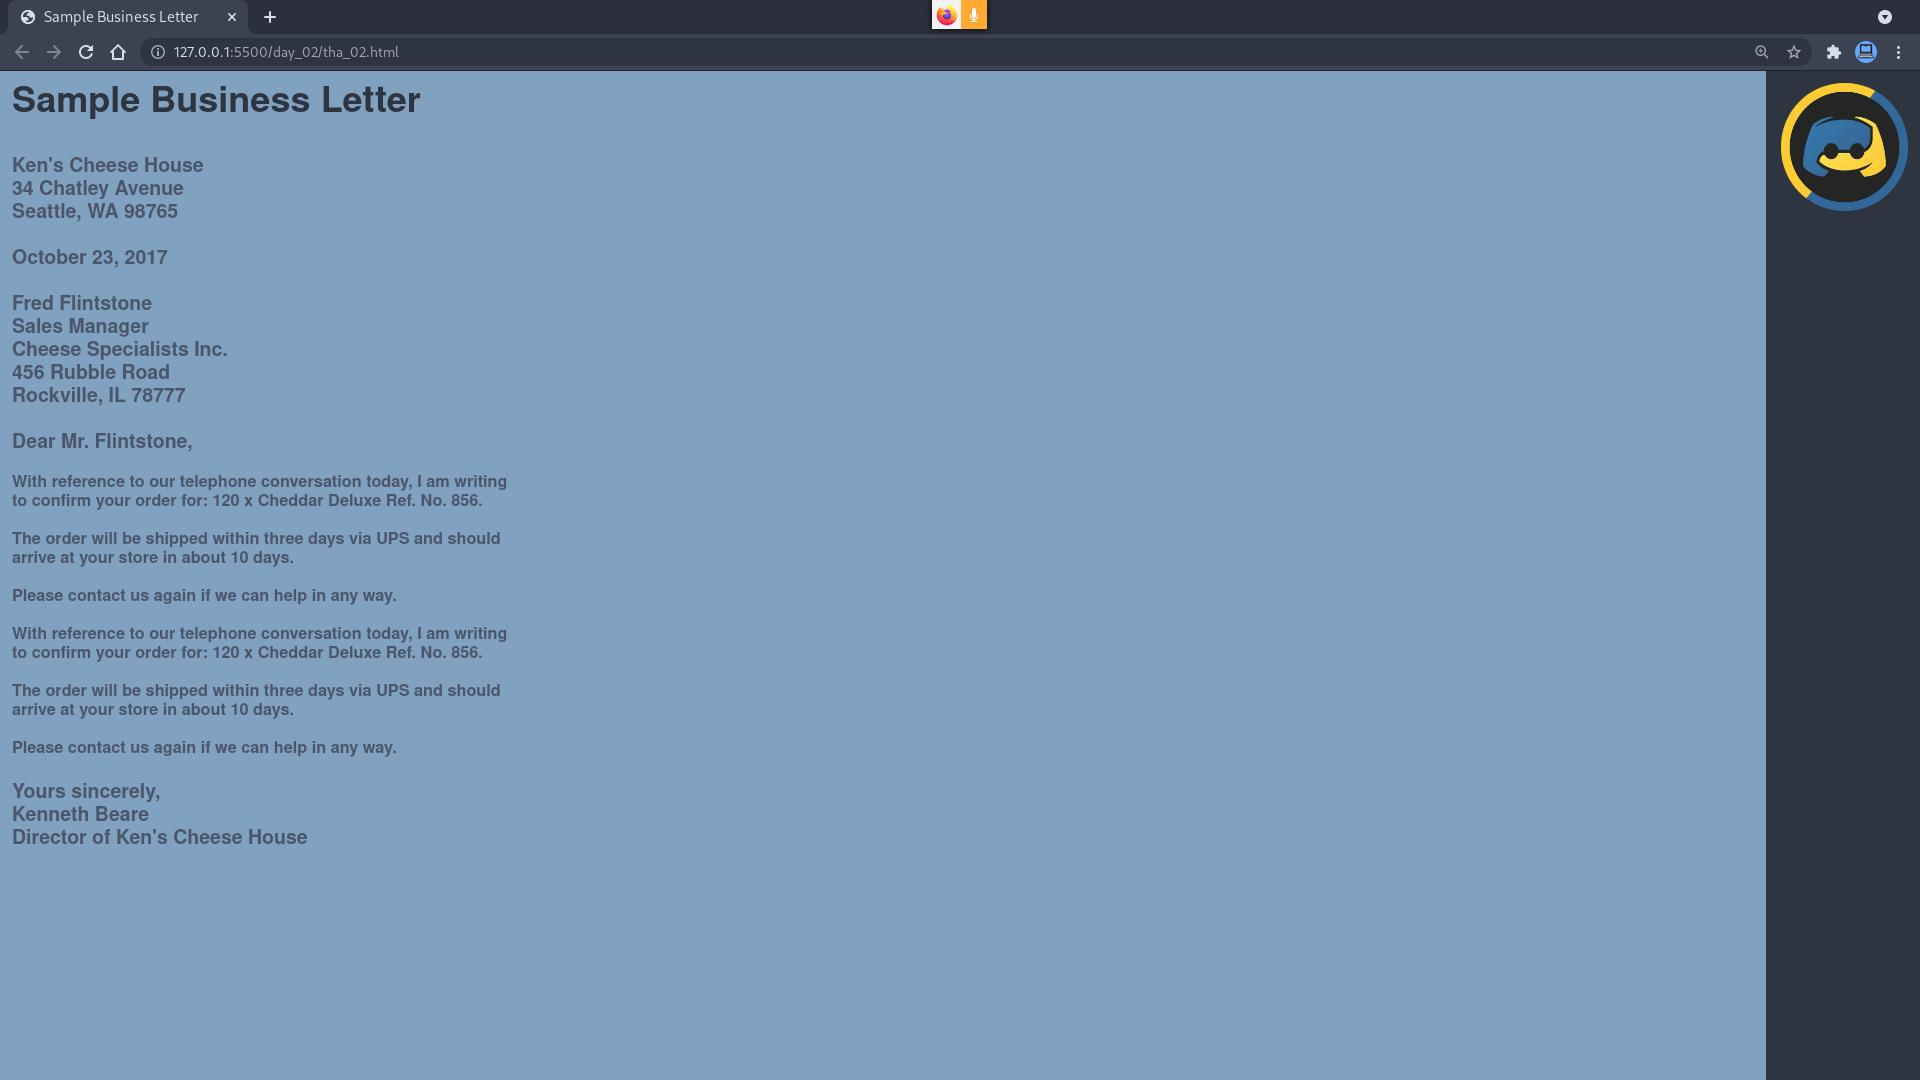
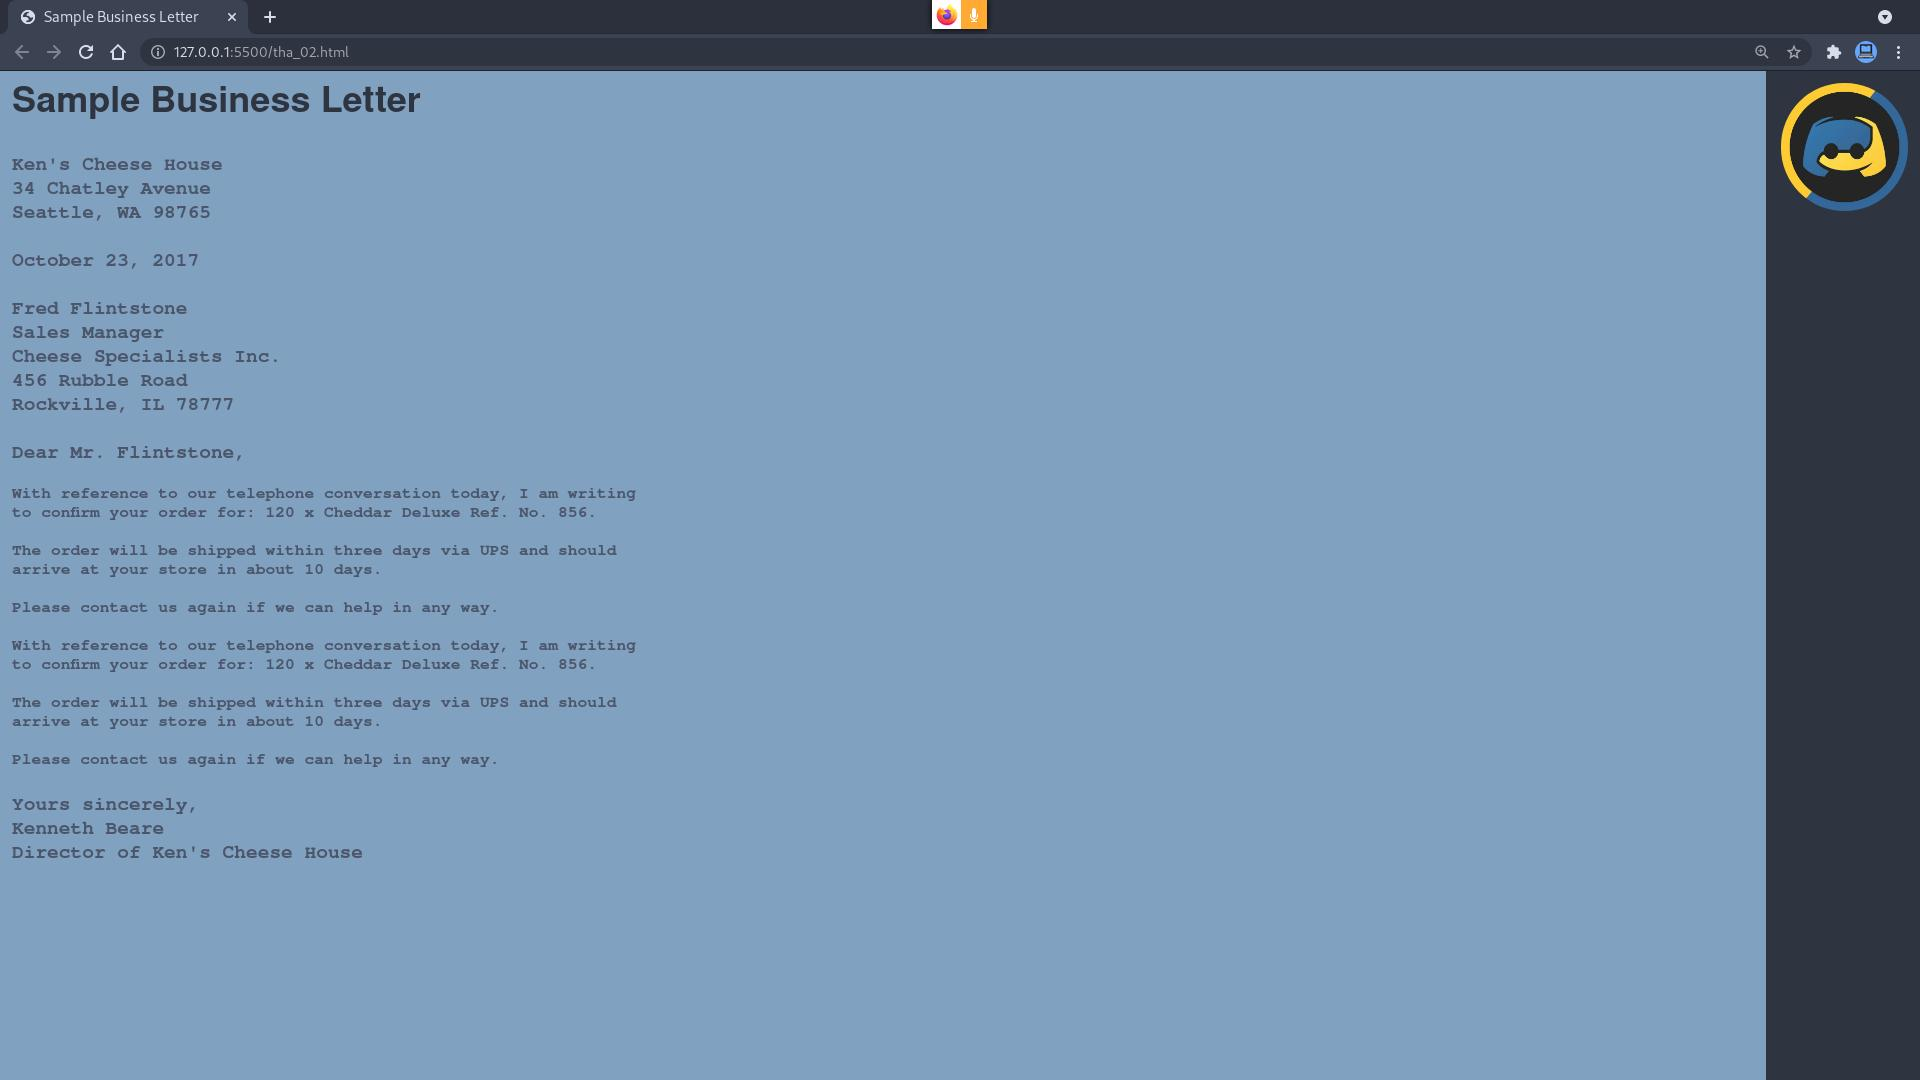
Update day 2 THA

Changed region(s): [[0.0, 0.275, 0.3125, 0.7944], [0.0, 0.1528, 0.125, 0.2444], [0.1562, 0.0306, 0.1875, 0.0611]]

diff --git a/day_02/tha_02.html b/day_02/tha_02.html
@@ -1,10 +1,10 @@
 <html>
   <head>
-    <link rel="stylesheet" href="/day_02/styles.css" />
+    <link rel="stylesheet" href="/styles.css" />
     <title>Sample Business Letter</title>
   </head>
   <body>
-    <img src="/day_02/discordpy.webp" alt="Discord profile pic" />
+    <img src="/discordpy.webp" alt="Discord profile pic" />
     <a
       target="_blank"
       href="https://in.indeed.com/career-advice/career-development/business-letter-format-and-example"

diff --git a/day_02/styles.css b/day_02/styles.css
@@ -17,5 +17,6 @@ img {
   color: #4c566a;
   font-weight: bolder;
   font-size: small;
+  font-family: "Courier New", Courier, monospace;
   text-decoration: red dotted;
 }
